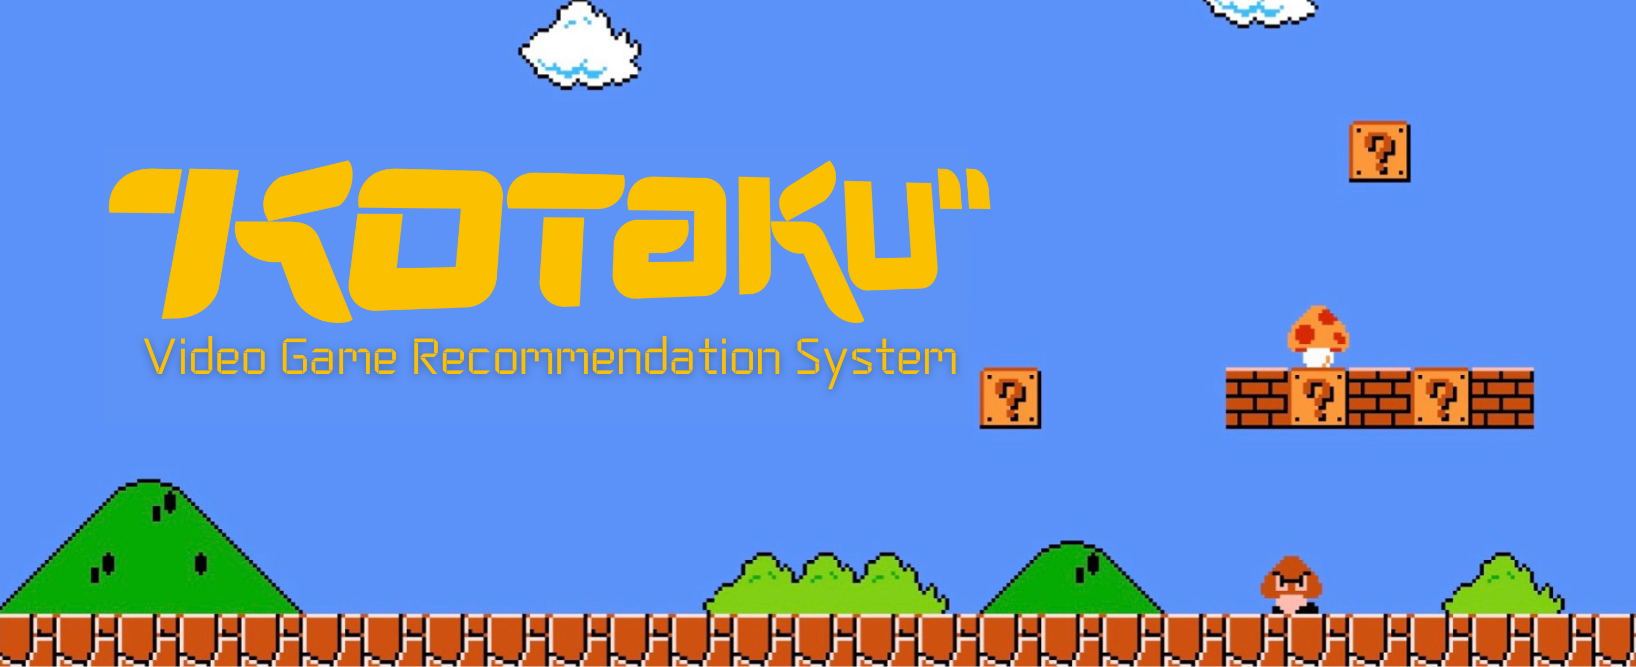
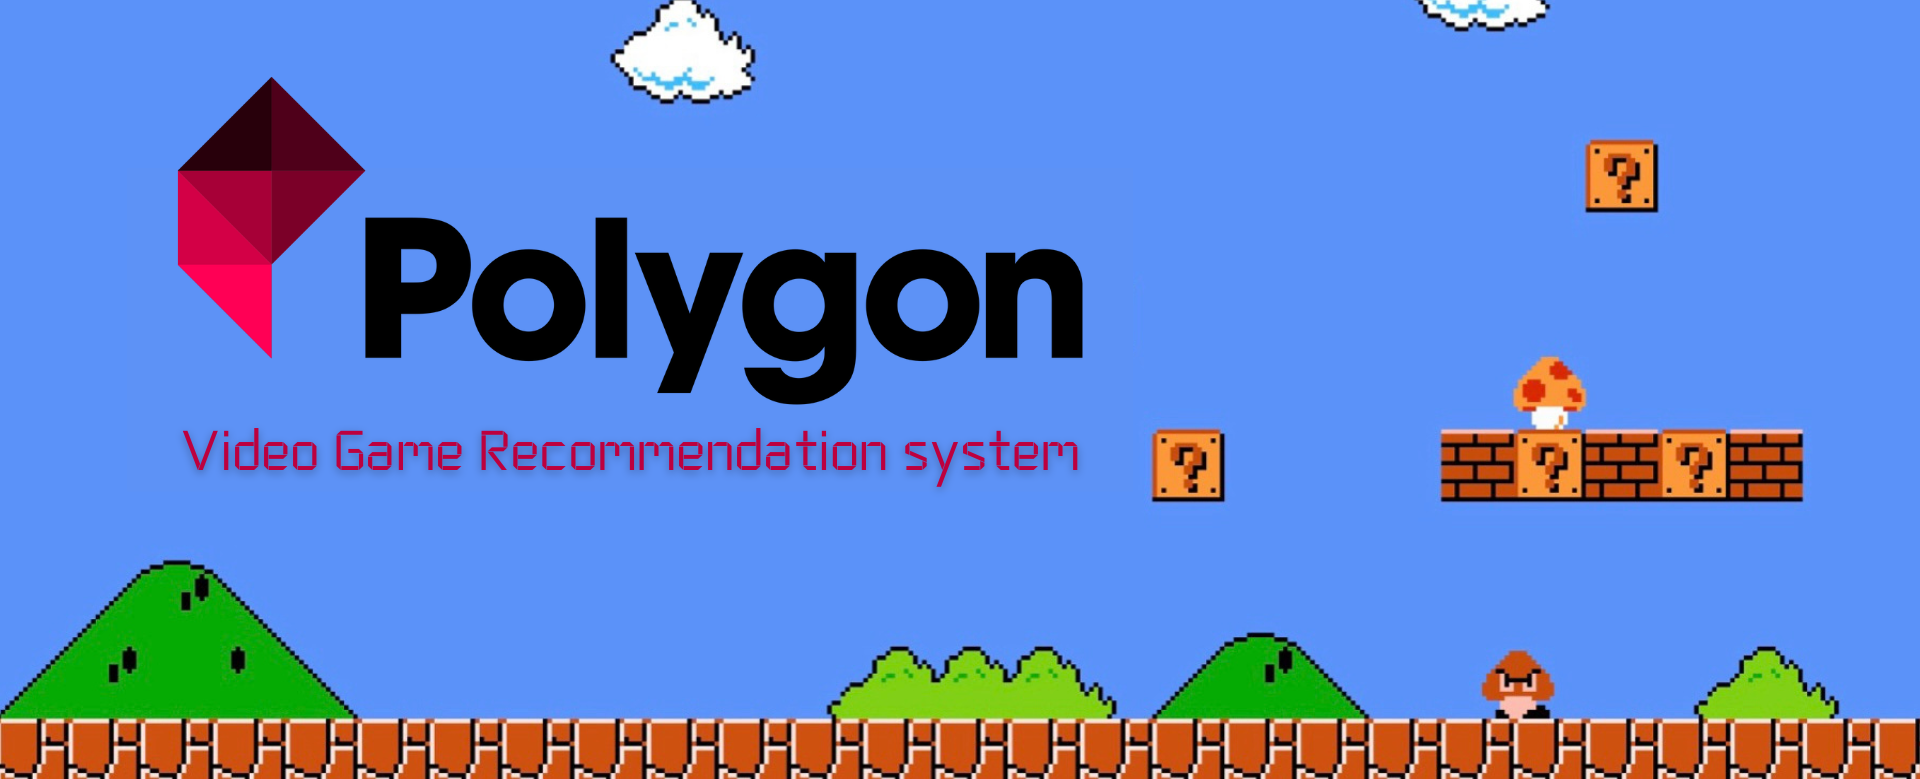
added motivation, final stakeholder, finished collab-filter app

diff --git a/recommender_app.py b/recommender_app.py
@@ -23,6 +23,8 @@ def add_bg_from_local(image_file):
     )
 add_bg_from_local('images/app_cover.png')  
 
+logo = Image.open('images/Polygon_logo.png')
+st.image(logo, caption='')
 
 st.title('Game Recommendation System')
 
@@ -89,3 +91,5 @@ if rec_button:
     recomm = game_recommender(customer_id, num_of_rec)
     st.write(recomm)
 
+st.subheader('By Juan Acosta')
+st.markdown('[GitHub](https://github.com/JuanMa894/VGames-rec-system), [Linkedin](https://www.linkedin.com/in/jun-acost/)')

diff --git a/README.md b/README.md
@@ -3,15 +3,18 @@
 **Author: Juan Acosta**
 
 ***
+## Motivation
+In 2022, over 1,100 games were released, and this number doesn't even include indie developer games. The total number of games available has reached millions, making it increasingly difficult for players to discover new titles. To address this problem, a project was initiated using data from 140,000 reviews for 7,000 different games. Utilizing the Surprise package in Python, the machine learning model created through this project achieved an RMSE of 1.20. This means that the model is able to accurately predict the star rating (out of 5) for a given game and user within a margin of 1 star.
+***
 
 ## Business understanding
-[Kotaku](kotaku.com) is a well-known video game website and blog that was founded in 2004 and has been recognized as one of PC Magazine's top 100 classic web sites. Kotaku describes itself as a news and opinion site about games and topics that are important to serious gamers, and strives to be an inclusive platform for gamers of all ethnicities, genders, and sexual orientations. The site expects its writers and commenters to treat the people they write about with respect, as they would if they were to meet them in person. Kotaku aims to provide a welcoming and respectful community for gamers of all backgrounds.
+[Polygon](Polygon.com) is a well-known video game website and blog that was founded in 2012 and has been recognized as one of PC Magazine's top 100 classic web sites. Polygon describes itself as a news and opinion site about games and topics that are important to serious gamers, and strives to be an inclusive platform for gamers of all ethnicities, genders, and sexual orientations. The site expects its writers and commenters to treat the people they write about with respect, as they would if they were to meet them in person. Polygon aims to provide a welcoming and respectful community for gamers of all backgrounds.
 
-While Kotaku does not currently offers a personalized recommendation system on their site, users who are looking for new games may have to rely on recommendations based on general popularity and marketing rather than their own personal interests and experiences. With so many games available on the market, it can be overwhelming for players to go through all of the options and find something that suits their interests. A recommendation system can be really useful for players when it comes to finding new titles that align with their preferences and past behavior.
+While Polygon does not currently offers a personalized recommendation system on their site, users who are looking for new games may have to rely on recommendations based on general popularity and marketing rather than their own personal interests and experiences. With so many games available on the market, it can be overwhelming for players to go through all of the options and find something that suits their interests. A recommendation system can be really useful for players when it comes to finding new titles that align with their preferences and past behavior.
 
 One potential problem with using recommender systems on official platform stores for digital games is that they may prioritize promoting newer, more profitable games, potentially at the expense of recommending older but high-quality ones. This can lead to customers missing out on discovering older games that they might enjoy. It's important to be aware of this potential bias and to consider using other sources of recommendations besides the official stores. This can help ensure that customers are exposed to a wide variety of games, including older titles that may not be as prominently featured.
 
-In recent years, the video game industry has experienced a significant shift towards digital sales, with the majority of global revenue coming from digital channels. In 2022, it is estimated that over 75% of global video game revenue was generated through digital sales ([source](https://www.pushsquare.com/news/2022/07/nearly-80percent-of-all-ps5-ps4-games-are-bought-digitally)), indicating a strong trend towards online purchasing and digital distribution of games. This shift is likely driven by several factors, such as the increasing prevalence of high-speed internet and the convenience of being able to purchase and download games directly to a device without the need for physical copies. As digital sales continue to increase in importance, recommendation systems will become increasingly important for gamers. Kotaku, as a site that values its audience, could benefit from offering a recommendation system to help its users. This could not only benefit the site's visitors, but it could also help Kotaku retain website traffic by providing a useful and unique feature that keeps users coming back.
+In recent years, the video game industry has experienced a significant shift towards digital sales, with the majority of global revenue coming from digital channels. In 2022, it is estimated that over 75% of global video game revenue was generated through digital sales ([source](https://www.pushsquare.com/news/2022/07/nearly-80percent-of-all-ps5-ps4-games-are-bought-digitally)), indicating a strong trend towards online purchasing and digital distribution of games. This shift is likely driven by several factors, such as the increasing prevalence of high-speed internet and the convenience of being able to purchase and download games directly to a device without the need for physical copies. As digital sales continue to increase in importance, recommendation systems will become increasingly important for gamers. Polygon, as a site that values its audience, could benefit from offering a recommendation system to help its users. This could not only benefit the site's visitors, but it could also help Polygon retain website traffic by providing a useful and unique feature that keeps users coming back.
 ***
 
 ## Data undestanding and Preparation
@@ -57,7 +60,7 @@ While SVD++ models also demonstrated an improvement compared to the baseline mod
 
 
 # Conclusion
-The SVD model can make recommendations for games that a user has not played yet by using their past behavior and the rating history of similar users. It can predict the ratings of these games and recommend the ones that are most likely to be highly rated. Kotaku, a gaming website that is not directly involved in game development, can benefit from implementing this system by offering personalized recommendations to its audience without any outside advertising influence. Kotaku's dedication to creating a positive experience for gamers and its desire to continually improve its site drives the decision to implement such a system, which also has the added benefit of increasing website traffic and engagement.
+The SVD model can make recommendations for games that a user has not played yet by using their past behavior and the rating history of similar users. It can predict the ratings of these games and recommend the ones that are most likely to be highly rated. Polygon, a gaming website that is not directly involved in game development, can benefit from implementing this system by offering personalized recommendations to its audience without any outside advertising influence. Polygon's dedication to creating a positive experience for gamers and its desire to continually improve its site drives the decision to implement such a system, which also has the added benefit of increasing website traffic and engagement.
 
 **limitations**<br>
 A major drawback of collaborative filtering is its reliance on the quantity of user feedback, i narrowed the dataset by only including users who had provided more than 5 reviews, this reduced the number of game titles by nearly 50%, but I was still left with 3000 games to use in the model. While this approach did lead to a lower RMSE, the recommendations for almost all users tended to be the same, this could be due to the sparsity in the data when there are few ratings relative to the total number of items. In these cases, it can be difficult to identify similar users and make reliable recommendations. One way to address this issue is to increase the amount of data available. Another approach is to implement a content-based recommendation model, which makes recommendations based on the similarity of items rather than user behavior. This can lead to more diverse recommendations and may also help to solve the "cold start" problem, where a lack of data makes it difficult to generate reliable recommendations for new users. A content-based model does not rely on user feedback such as ratings, so it can provide recommendations even when data is limited.
@@ -79,7 +82,7 @@ One potential next step to improve the recommendation system would be to impleme
 
 * #### [Simon Funk jornal about SVD](https://sifter.org/~simon/journal/20061211.html)
 
-* #### **Cover image** :Logo from [kotaku.com](https://kotaku.com/), background from [Nintendo](https://www.nintendo.com/)
+* #### **Cover image** :Logo from [Polygon](https://Polygon.com/), background from [Nintendo](https://www.nintendo.com/)
 
 
 ### Repository Structure
